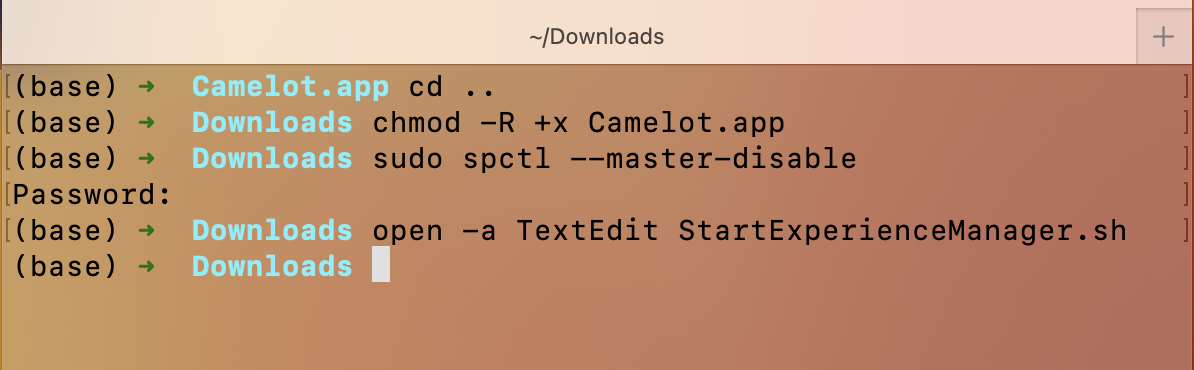
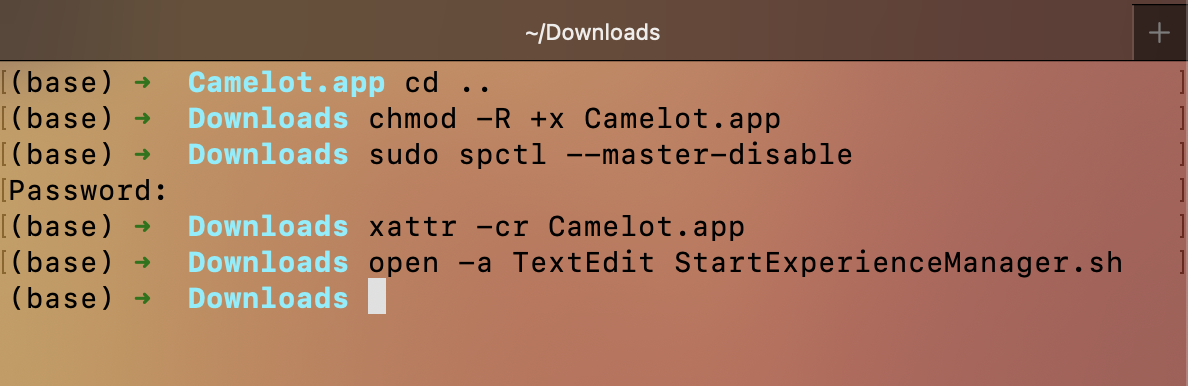
Lab0 project setup

Changed region(s): [[0.0, 0.0, 1.0, 1.0], [0.1557, 0.5649, 0.9655, 0.8324]]

diff --git a/Lab 00 - Project Setup.md b/Lab 00 - Project Setup.md
@@ -1,11 +1,101 @@
-
-## I. Installing and Configuring Eclipse
-### Downloading Eclipse
+## Links
+- [Assignment Description](https://tulane.instructure.com/courses/2271434/assignments/14350002)
+- [Configuring Camelot](https://tulane.instructure.com/courses/2271434/pages/configuring-camelot)
+- [EGit Setup](https://tulane.instructure.com/courses/2271434/pages/egit-setup)
+## Overview
+```mermaid
+flowchart TD
+  subgraph Eclipse
+    subgraph JDK
+      jre[#JRE]
+    end
+    code([Your Java code]) --> JDK -->|compile| prog[Java program]
+    jre -.->|run| prog
+    prog --> ant[#II. Ant]
+    code <-->|pull/push| git[#III. EGit]
+  end
+  subgraph Github
+    repo[Repository] <-->|pull/push| git
+  end
+  ant -->|build| em[ExperienceManager.jar]
+  jre -.->|run| em
+  em -->|invoked by| cml[#IV. Camelot]
+class jre,cml,ant,git internal-link;
+```
+## I. Eclipse
+### Download Eclipse
 - [Eclipse Installer 2023-06 R | Eclipse Packages](https://www.eclipse.org/downloads/packages/installer)
-### Installing Eclipse
+### Install Eclipse
 - Choose **Eclipse IDE for Java Developers**
-## II. Camelot Setup
+  > [!note]
+  > For Mac users, change the installation folder to `/Applications` if you want to launch Eclipse from Launchpad.
+### Create a Hello World application
+- Click "**Create a Hello World application**" on the *Welcome* page ( `Help > Welcome` ), and follow the instructions
+- When creating the Java project
+	- Choose "**Use default JRE**"
+	- Uncheck "**Create module-info.java file**"
+> [!success]
+> ![[eclipse_helloworld.png]]
+### JRE
+- Open the shell (Terminal/Command-line/PowerShell), and run
+  ```
+  java --version
+  ```
+	- If it runs successfully, which means you have the JRE globally available, you can skip this section.
+- Either install JDK from other sources:
+	- [Java Downloads | Oracle](https://www.oracle.com/java/technologies/downloads/)
+	- [Microsoft Build of OpenJDK](https://learn.microsoft.com/en-us/java/openjdk/install)
+	- Using package manager
+		- E.g., `brew install java`
+- Or add an existing JRE (e.g., the one that comes with Eclipse) to the system path
+  > [!note] Locate JRE directory in Eclipse
+  > Navigate to **Preferences** (Windows: `Window > Preferences`; macOS: `Eclipse > Settings...`) `> Java > Installed JREs`
+
+  add `<JRE_home>/bin` to PATH ^354e84
+	- [How to Add to Windows PATH Environment Variable (helpdeskgeek.com)](https://helpdeskgeek.com/windows-10/add-windows-path-environment-variable/)
+	- [How to add a directory to system path on macos? - Search (bing.com)](https://www.bing.com/search?q=How+to+add+a+directory+to+system+path+on+macos%3F&qs=n&form=QBRE&sp=-1&lq=0&pq=how+to+add+a+directory+to+system+path+on+macos%3F&sc=1-47&sk=&cvid=4378818048944D8F80C258137169AB12&ghsh=0&ghacc=0&ghpl=)
+#### Using an existing JRE for Eclipse
+- [[Lab 00 - Project Setup#^354e84|Add and apply]] JRE
+- Change _compiler compliance level_ (`Preferences > Java > Compiler`) accordingly
+## II. Ant
+### Import existing Java projects
+- Download the [course project](https://tulane.instructure.com/courses/2271434/pages/java-project)
+- [Import it to into Eclipse workspace](https://www.codejava.net/ides/eclipse/import-existing-projects-into-eclipse-workspace)
+### Configure Ant Builder
+> [!note]
+> The [course project](https://tulane.instructure.com/courses/2271434/pages/java-project) has been properly configured.
+
+> [!info]
+> See [Configure Ant to build Jar file](https://tulane.instructure.com/courses/2271434/pages/build-dot-xml) for reference.
+## III. EGit
+> [!info]
+> See [EGit Setup](https://tulane.instructure.com/courses/2271434/pages/egit-setup) for reference.
+### Prerequisite
+- A [GitHub](https://github.com/) account
+- A [repository](https://github.com/new) in your account
+### [Generate a personal access token](https://github.com/settings/personal-access-tokens/new)
+- ![[github_generate_PAT.png]]
+- Repository access
+	- choose **Only select repositories**
+- Permissions > Repository permissions (Access: Read and write)
+	- Commit statuses
+	- Contents
+	- Discussions
+	- Issues
+	- Pull requests
+### Clone repository
+- Open the Git window
+  ![[egit_window.png]]
+	- If the **Git** icon is not shown on the toolbar, click the **Open Perspective** icon in the top right corner to add it
+- Clone Git Repository
+	- URI: the HTTPS link to your repo
+	- User: your Github user name
+	- Password: the access token generated in [[Lab 00 - Project Setup#[Generate a personal access token](https //github.com/settings/personal-access-tokens/new)|the section above]] 
+## IV. Camelot
+> [!info]
+> See [Configuring Camelot](https://tulane.instructure.com/courses/2271434/pages/configuring-camelot) for reference.
 ### Windows
+- Download [Camelot](http://cs.uky.edu/~sgware/projects/camelot/v1-2/) and extract it to your preferred location
 ### MacOS
 - Download the app from [here](https://drive.google.com/drive/folders/1iiD872kNDVB_G3Vk3O55cdb79iMAvGzI)(whole folder)
   ![[camelot_downloading_macos.png|500]]
@@ -16,14 +106,21 @@
     ```sh
     cd ..
     ```
-	- Give execution permission to `Camelot.app` and change system policies (enter admin password when prompted) to allow applications downloaded from anywhere
+	- Give execution permission to `Camelot.app`
     ```sh
     chmod -R +x Camelot.app
+    ```
+	- Change system policies (enter admin password when prompted) to allow applications downloaded from anywhere
+    ```sh
     sudo spctl --master-disable
     ```
 	![[macos_app_anywhere.png|400]]
+	- Remove all extended attributes from the app
+    ```sh
+	xattr -cr Camelot.app
+    ```
   ![[camelot_macos_setup.png|600]]
-- Create a text file with name `StartExperienceManager.sh`
+- Create a text file with name `StartExperienceManager.sh` at the same directory (Here, we are using TextEdit as an example, but you are free to use any editor you prefer)
   ```sh
   open -a TextEdit StartExperienceManager.sh
   ```
@@ -38,11 +135,3 @@
 	  ![[camelot_showmenu.png|400]]
 > [!success]
 > ![[camelot_start_screen.png|480]]
-## III. Importing Class Project to Eclipse
-- 
-
-## IV. EGit Setup
-
-## Links
-- [Assignment Description](https://tulane.instructure.com/courses/2271434/assignments/14350002)
-- [Configuring Camelot](https://tulane.instructure.com/courses/2271434/pages/configuring-camelot)

diff --git a/README.md b/README.md
@@ -1,1 +1,4 @@
-# CMPS-1601-03Fa23
+# CMPS-1601-01Fa23
+
+## Contents
+- [[Lab 00 - Project Setup]]
